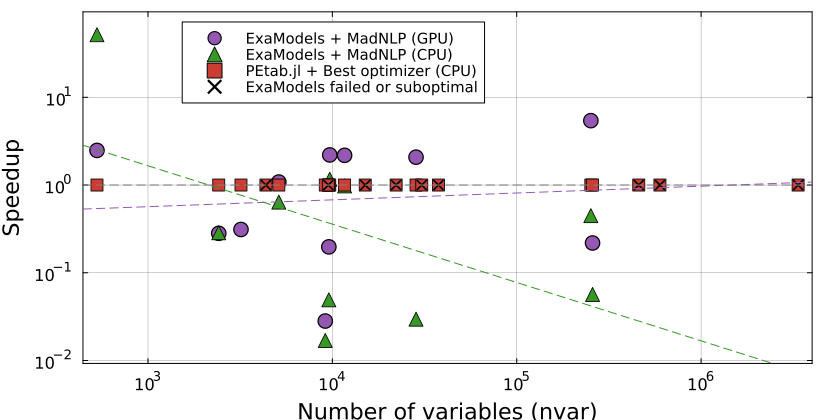
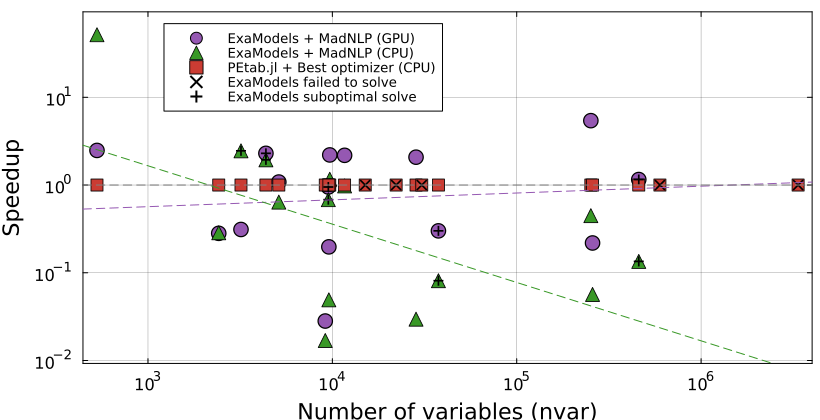
edit claude.md

diff --git a/CLAUDE.md b/CLAUDE.md
@@ -1,0 +1,16 @@
+# exa-petab-focapo-2027 — benchmark and paper repo
+
+`benchmark/options.jl` is the source of truth for every setting and model list, and
+`run_benchmarks.sh` documents its own staging. Read them. Do not restate them here and do not invent
+settings.
+
+Live per-model status lives in `benchmark/benchmark_results/benchmark_results_<TAG>/` and
+`results_table.txt`. Never carry pass/fail in notes.
+
+## The one constraint the code cannot express
+
+**Never set both an absolute and a relative tolerance on a PEtab optimizer.** The options are
+PEtab.jl's own recommended per-optimizer defaults, overridden only by the wall and iteration caps.
+Adding Fides `grtol`/`xtol` or Optim `f_abstol`/`x_reltol` hands PEtab extra early-stop criteria and
+unfairly favors it, which is the whole argument of the comparison. The code shows what *is* set; it
+cannot show what must never be added. A previous run was corrupted exactly this way and discarded.
